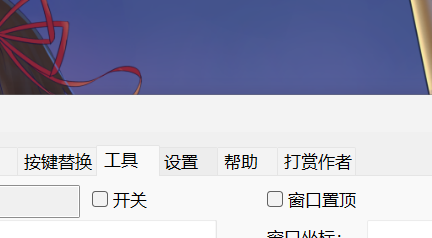
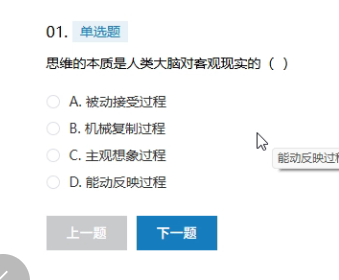
修复变量提取功

diff --git a/Web/更新日志.md b/Web/更新日志.md
@@ -389,6 +389,7 @@ RMT截图状态增加提示
 修复语音提示配置报错问题**
 修复多线程交互过快，信息丢失问题**
 修复如果pro功能没有实装问题**
+修复剪切板提取变量多换行符问题**
 
 ### 待更新
 多语言
